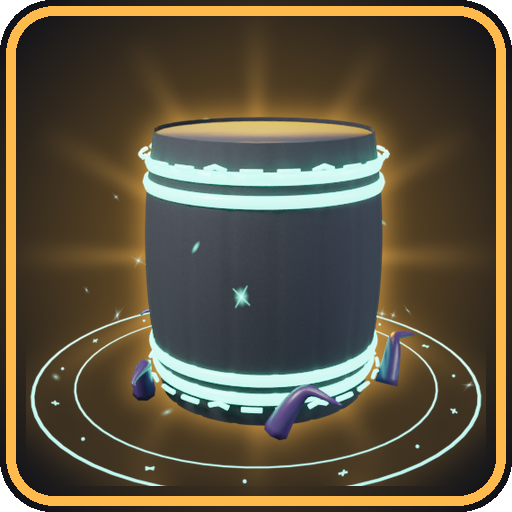
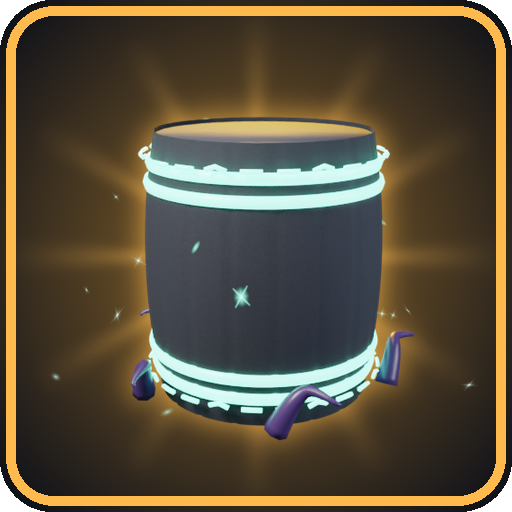
가져오기 방향 확인 검사 추가, 통 카드에서 빛 고리 제거
- smoke 검사에 Studio 가 조각을 180° 돌려 넣는 경우와 돌리지 않는 경우를 모두 넣는다
- 통 카드 그림에서 빛나는 룬 고리를 빼고 다시 그린다 (게임에서도 통의 빛 고리를 없앰)
- 안내서에 17.1 수정 내용과 가져온 모델 옮기는 법을 적는다

Claude-Session: https://claude.ai/code/session_016KbpmfuqgkVXkpGuATjMjb

diff --git a/roblox-cursed-barrel/blender/build_all.py b/roblox-cursed-barrel/blender/build_all.py
@@ -204,7 +204,7 @@ def dress(kind, s, objs, rank):
                              ext.z * 0.9, size * 0.07, seed=rank * 3)
     if rank >= 3:
         extra += C.scatter_cards("Orb", "orb.png", col, 3.0, {3: 6, 4: 9, 5: 12}[rank], c, max(ext.x, ext.y) * 0.9, ext.z, size * 0.05, seed=rank * 7)
-    if rank >= 4 and kind != "Knife":
+    if rank >= 4 and kind == "Ghost":
         ring = X.rune_ring("ThumbRing", C.mat_glow("RingGlow", acc, 5.0), R=max(ext.x, ext.y) * 0.75)
         ring.location = (c.x, c.y, lo.z + 0.02)
         extra.append(ring)
